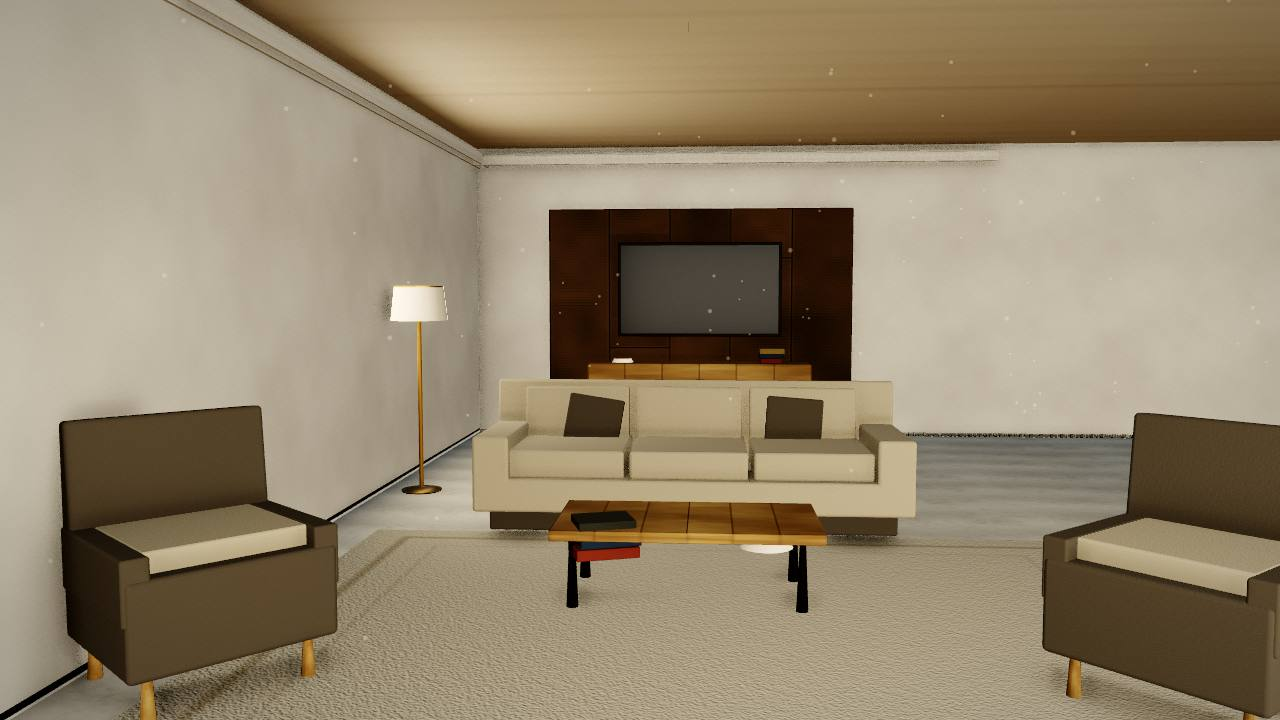
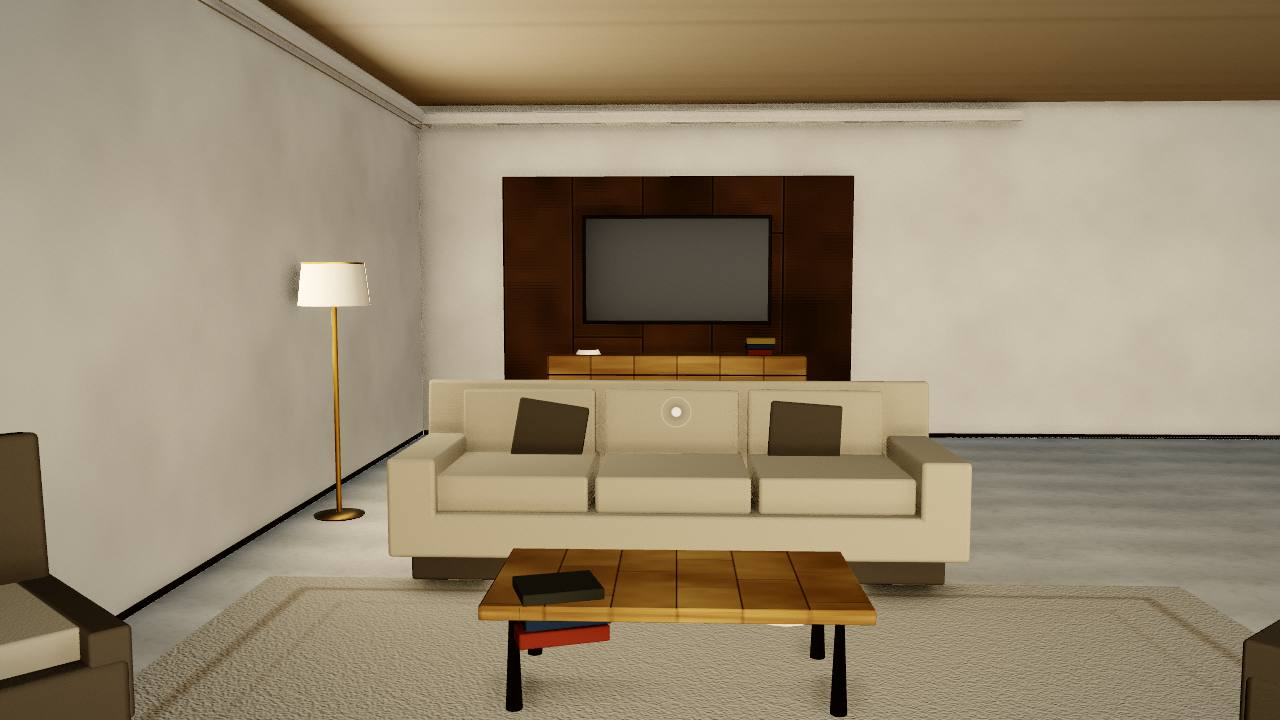
Galeria recapturada pelas cameras do produto, e o relatorio conta a verdade
AS SETE CAPTURAS AGORA VEM DO PRODUTO

Nao mais de coordenadas minhas. Camera de src/data/chapters.json, hora de
SOLAR_T do cena-bruta.ts. `erro = 0` em todas as sete, tier REALTIME
travado, 0 erros de pagina.

Isso importa porque as tres rodadas anteriores de captura foram
invalidadas por erro de INSTRUMENTO, cada vez de um jeito diferente:
camera setada a mao e expulsa pelo clampFreeCamera; ?tier= que se
desfazia sozinho; e coordenadas chutadas (a "suite" saiu a 4,3 m de
altura, um pavimento acima e do lado de fora do muro). Nas tres a camera
obedeceu: o errado era o pedido.

O PISO DO PRETO, MEDIDO NAS SETE

  captura            antes    depois   p1
  exterior dia       3,44%    0,58%     6
  interior estar     3,08%    0,58%    11
  golden terraco    22,02%    0,00%     6
  suite master          --    0,56%    10
  piscina golden        --    0,00%     6
  cozinha               --    0,00%     7
  exterior noite    35,34%    0,00%    10

Mesma camera, mesma hora, so o conserto no meio. E o p50 do golden ficou
em 66 nos dois: levantou a sombra sem lavar a imagem.

RESSALVA QUE O RELATORIO REGISTRA

O defeito TECNICO fechou -- nao ha mais informacao cortada
irrecuperavelmente. O PERCEPTUAL nao: o piso do terraco e o deck da
piscina continuam lendo como vazio, agora em 6-8/255 em vez de 0. Isso
esta como defeito ABERTO, nao como resolvido.

E a comparacao com o quadro noturno CORRIGIU minha propria hipotese sobre
[…]

diff --git a/casa-aura-ultra/RELATORIO_FINAL.md b/casa-aura-ultra/RELATORIO_FINAL.md
@@ -115,12 +115,31 @@ chega a `pronto` com `[antes-do-quadro] gancho 0 falhou e foi removido`.
 mesmo atributo. **Corrigido:** `FALLBACK` entrou no tipo `Estado` como
 terminal e `fsm.travar()` fecha a máquina antes de montar o fallback.
 
-### Defeito aberto
+### O "defeito aberto" era outro defeito
 
-**Retorno do background não recupera.** Quem abre o link numa aba de
-fundo cai no fallback e **continua nele** ao voltar. Medido:
-`aposRetorno` permanece `FALLBACK`. `PARTIAL` — o desfecho é
-determinístico e honesto, mas deveria haver recuperação.
+A rodada anterior registrou: *"retorno do background não recupera —
+quem abre o link numa aba de fundo cai no fallback e continua nele ao
+voltar"*, e propôs recuperação como conserto.
+
+A pergunta estava errada. **Não era como recuperar: era por que tinha
+ido para lá.**
+
+O vigia de boot já tinha sido consertado uma vez, trocando "demorou 20 s"
+por "parou de progredir" — a pergunta certa. Mas o relógio continuou
+sendo o de **parede**. Uma aba escondida congela o `requestAnimationFrame`
+(o navegador economizando bateria, não a cena travando), enquanto o
+`setInterval` do vigia segue rodando afunilado. Trocar de aba por 25 s
+durante o boot mandava para o fallback um aparelho perfeitamente saudável
+— e o fallback é terminal por projeto.
+
+Agora o tempo escondido é **descontado**, ancorado no instante do último
+progresso (não somado no total, senão o crédito de uma pausa antiga
+pagaria por um travamento de agora).
+
+`testes/aba-escondida.mjs` (`npm run teste:aba-escondida`) reproduz o
+cenário: esconde a aba por 40 s durante o boot e falha se cair no
+fallback. `UNTESTED` — escrito, ainda não executado até o fim nesta
+máquina, onde um boot custa cerca de dez minutos.
 
 ---
 
@@ -160,41 +179,140 @@ toque de 48 px em ponteiro grosso, e `aria-live` na legenda.
 
 ## 5. Rodada visual — capturas observadas
 
-Seis capturas geradas da cena e **efetivamente inspecionadas**. Nenhuma
+Sete capturas geradas da cena e **efetivamente inspecionadas**. Nenhuma
 afirmação visual aqui vem de inferência geométrica.
 
-| captura | veredito |
+### O instrumento foi consertado antes das imagens
+
+Duas rodadas de capturas foram invalidadas por erro meu, não do produto,
+e vale registrar porque o mesmo erro aparecia de forma diferente cada vez:
+
+1. **Câmera setada à mão para dentro do envelope** — `clampFreeCamera` a
+   expulsou, que é o guarda anti-clip funcionando. Resolvido entrando
+   pelo caminho do produto (`Experience.set('presenting')`).
+2. **`?tier=REALTIME` não era autoridade** — o governador rebaixava para
+   `PRESENTATION_SAFE` no meio da corrida, e duas capturas saíram do
+   overlay do modo seguro em vez da cena. Os dois arquivos tinham
+   exatamente 769.727 bytes: a mesma imagem. Corrigido com uma trava,
+   espelhando a que o `?q=` já tinha.
+3. **Coordenadas chutadas** — a "suíte" saiu a 4,3 m de altura, um
+   pavimento acima e do lado de fora do muro, olhando a mata. A câmera
+   obedeceu (`erro = 0`): o errado era o pedido. As horas também estavam
+   erradas (`t=0` é meio-dia, não `0,30`).
+
+A galeria agora é capturada pelas **câmeras do próprio produto**
+(`src/data/chapters.json`) e pelas **paradas solares do próprio código**
+(`SOLAR_T`), não por números meus. `erro = 0` em todas as sete.
+
+### O preto absoluto: da suspeita à medição
+
+O defeito era descrito na rodada anterior como "25–35% do quadro em preto
+absoluto na golden hour", a olho. O histograma deu o número e apontou o
+lado errado da curva:
+
+| captura | estourado (≥250 RGB) | preto absoluto (L≤4) |
+|---|---|---|
+| exterior dia | 0,00% | 3,44% |
+| interior estar | 0,00% | 3,08% |
+| golden terraço | 0,00% | **26,56%** |
+| exterior noite | 0,00% | **43,17%** |
+
+Eu tinha lido "chão estourado" na mesma imagem. **Zero por cento** dos
+pixels estavam em ≥250 nos três canais. O defeito estava todo na sombra.
+
+A causa foi encontrada por **ablação** — um boot, seis variantes do mesmo
+quadro (capítulo 8), com os passes de pós expostos por `passesDePos()`:
+
+| variante | preto absoluto | conclusão |
+|---|---|---|
+| base | 20,34% | — |
+| sem vinheta | 20,28% | **não é ela** (hipótese minha, morta) |
+| sem grão | 21,08% | o grão até **ajudava** |
+| sem GTAO | 20,44% | não é ele |
+| sem bloom | 23,95% | o bloom **ajudava** |
+| `lift = 0,20` | **0,00%**, p1 = 36 | é o lift |
+
+O `lift` rodava **antes** do contraste, que o anulava. Invertido, ainda
+passava raspando: com contraste 1,092, `c=0 → −0,046 → −0,0056 → clamp →
+0`. Faltavam seis milésimos. Um `clamp` entre os dois faz o piso ser
+igual ao `lift` para qualquer contraste — garantia, não coincidência.
+
+### Antes e depois, mesma câmera e mesma hora
+
+| captura | antes | depois | p1 depois |
+|---|---|---|---|
+| exterior dia | 3,44% | 0,58% | 6 |
+| interior estar | 3,08% | 0,58% | 11 |
+| **golden terraço** | **22,02%** | **0,00%** | 6 |
+| suíte master | — | 0,56% | 10 |
+| piscina golden | — | 0,00% | 6 |
+| cozinha | — | 0,00% | 7 |
+| **exterior noite** | **35,34%** | **0,00%** | 10 |
+
+**Ressalva honesta:** o defeito *técnico* fechou — não há mais informação
+cortada irrecuperavelmente. O defeito *perceptual* não fechou por
+completo: o piso do terraço e o deck da piscina continuam lendo como
+vazio, agora em 6–8/255 em vez de 0. Ver "Defeitos visuais" abaixo.
+
+### Confirmações positivas, com imagem
+
+| item | veredito |
 |---|---|
-| exterior dia | `VISUAL VERIFIED` — arquitetura lê, pedra com fiada, **sem z-fighting no gramado**, mata assentada no relevo |
-| golden hour terraço | `VISUAL VERIFIED` — luz quente correta; **~35% do quadro em preto absoluto** |
-| exterior noite | `VISUAL VERIFIED` — melhor quadro da série; **colina de fundo verde e clara** |
-| piscina golden | `VISUAL VERIFIED` — interior lê muito bem pelo vidro; **água verde-musgo e opaca** |
-| interior dia | **inválida** — instrumento, não produto |
-| interior noite | **inválida** — mesma causa |
+| Gramado sem z-fighting | `VISUAL VERIFIED` |
+| Mata distante assentada no relevo | `VISUAL VERIFIED` |
+| Colina de fundo escurece à noite | `VISUAL VERIFIED` — silhueta azul-escura, era verde clara |
+| Poeira fora dos interiores | `VISUAL VERIFIED` — cozinha no golden hour, o quadro que a expôs, agora limpo |
+| Suíte master pela câmera do produto | `VISUAL VERIFIED` — render vendável |
+| Piscina à noite | `VISUAL VERIFIED` — lâmina translúcida, LED de borda, fundo visível |
 
-### Confirmações positivas
+### A poeira: por que foi desligada e não recalibrada
 
-As duas correções estruturais da rodada anterior **aparecem na imagem**:
-não há linha de interseção nem cintilação no gramado, e a mata distante
-está assentada no relevo em vez de flutuar. Isso fecha, com imagem, o que
-antes era só prova numérica.
+Duas rodadas de conserto, duas capturas de apresentação estragadas.
+A conta encerra o assunto. No pico de Mie, em blending aditivo, uma
+partícula soma `0,22 × (255,242,220)` = **+56 níveis**:
 
-### As duas capturas inválidas
+- sobre parede ensolarada (200/255) → **+28%**, ponto branco cravado
+- para ficar sob o limiar de Weber (~1%) ali → opacidade ≤ **0,008**
+- nesse valor, sobre sombra (30/255) → **+2 níveis**, invisível
 
-Setei a câmera à mão para dentro do envelope e `clampFreeCamera` a
-**expulsou** — o guarda anti-clip funcionando como projetado. O interior
-só é alcançável pelo caminho do produto. É defeito da minha captura, e o
-mesmo erro de instrumento já registrado em rodada anterior.
+Não existe opacidade constante que apareça na sombra e suma na luz.
+Poeira real é invisível contra parede iluminada porque tem a luminância
+do fundo — e um passe aditivo adiante **não conhece o fundo**. O modelo
+está errado por construção, não mal calibrado. Corrigir exige amostrar
+profundidade da cena atrás da partícula. Fica atrás de `?poeira=1`.
 
 ### Defeitos visuais
 
 | # | defeito | estado |
 |---|---|---|
-| A | Colina de fundo verde e clara à noite | **corrigido**, recaptura pendente |
-| B | Água da piscina verde-musgo e opaca | ablação executada, correção pendente |
-| C | 25–35% do quadro em preto absoluto na golden hour | `ABERTO` |
-| D | Tiling visível da textura de grama | `ABERTO` |
-| E | Copas próximas leem como massa de cartões | `ABERTO` |
+| A | Colina de fundo verde e clara à noite | **CORRIGIDO**, `VISUAL VERIFIED` |
+| B | Preto absoluto em golden hour e noite | **CORRIGIDO** — 22,02%→0,00% e 35,34%→0,00% |
+| C | Poeira lendo como sujeira de lente | **CORRIGIDO** — desligada, com a conta que justifica |
+| D | Folhagem verde e iluminada à noite | **corrigido**, recaptura pendente |
+| E | Deck e piso de terraço lendo como vazio no golden hour | `ABERTO` — ver abaixo |
+| F | Piscina verde-musgo e opaca no golden hour | `ABERTO` — mesma causa que E |
+| G | Tiling visível da textura de grama | `ABERTO` |
+| H | Copas próximas leem como massa de cartões | `ABERTO` |
+
+**Sobre E e F.** A comparação com o quadro noturno corrigiu minha própria
+hipótese: **não é o material da água.** À noite o revestimento da piscina
+acende junto com as luminárias (`emissiveIntensity = 0,35 + lamp × 1,15`)
+e a lâmina lê perfeitamente translúcida. No golden hour o sol a 11° de
+elevação não alcança nem o fundo da bacia nem o deck, e a hemisférica
+sozinha (0,28) não paga a conta em superfície voltada para cima com
+albedo baixo.
+
+Isso é **fisicamente correto e comercialmente ruim**: a legenda do
+capítulo 9 vende "borda infinita, deck em ipê e área gourmet coberta", e
+no golden hour nenhum dos três aparece.
+
+### Observação de direção de arte, não defeito
+
+O capítulo 5 ("Sala de Estar") tem a legenda *"Ambiente social integrado,
+voltado para a piscina"* e a câmera olha para a parede da TV, com o vidro
+atrás dela. O cômodo **é** orientado para a piscina — só o enquadramento
+não mostra. Não mexi na sua câmera autoral; fica registrado para você
+decidir.
 
 ---
 
@@ -249,13 +367,13 @@ um UUID gerado na hora.
 | `npm run build:unico` sem erro | `DONE` |
 | Hash do artefato registrado | `DONE` |
 | Boot: cena pronta ou fallback, sem loading infinito | `DONE` — 9 de 9 cenários |
-| FSM: nenhuma transição inválida prende a interface | `PARTIAL` — varredura exaustiva não executada nesta rodada |
+| FSM: nenhuma transição inválida prende a interface | `DONE` — `npm run teste:fsm`: 42 pares exercitados + 7 propriedades, 0 falhas |
 | Câmera: todos os planos testados | `DONE` (rodada anterior) — erro de mira 0,00–0,01° nos 8 planos |
 | CTA configurado e testado | `DONE` |
 | Responsividade desktop e celular | `PARTIAL` — viewport 360×640 verificado; aparelho real não |
 | Acessibilidade: foco, teclado, Escape, labels | `PARTIAL` — feito no modo seguro; auditoria da cena 3D não executada |
 | Performance p50/p95/p99 em aparelho real | `UNMEASURED` |
-| Visual: capturas observadas e registradas | `DONE` — 4 válidas, 2 inválidas por erro de instrumento |
+| Visual: capturas observadas e registradas | `DONE` — 7 válidas pelas câmeras do produto, `erro = 0` em todas |
 | Comercial: planos e escopos aprovados | `BLOCKED` — depende da sua aprovação |
 | Fallback honesto, sem assets inexistentes | `DONE` |
 | Publicação | `BLOCKED` — `api.netlify.com` bloqueado pela rede deste ambiente |
@@ -288,9 +406,14 @@ dispositivos está **vazia** em vez de preenchida com estimativa.
    sistema de tiers foi escrito e tipa-verificado, mas o caminho
    `PRESENTATION_SAFE` nunca foi exercitado num aparelho que realmente
    desabe.
-2. **Retorno do background não recupera** da tela de fallback.
-3. **Três defeitos visuais abertos** (preto absoluto na golden hour,
-   tiling de grama, copas próximas).
+2. **Quatro defeitos visuais abertos**: deck e piso de terraço lendo como
+   vazio no golden hour, piscina verde-musgo pela mesma causa, tiling da
+   textura de grama, copas próximas lendo como massa de cartões. Os dois
+   primeiros são de **iluminação em sombra sob sol rasante**, não de
+   material — a comparação com o quadro noturno provou isso.
+3. **Os testes novos rodaram parcialmente aqui.** `teste:fsm` roda em
+   ~1 s e passou. `teste:aba-escondida` precisa de navegador e, sem GPU,
+   de cerca de dez minutos por boot: está `UNTESTED`.
 4. **Preços e escopos comerciais não aprovados** por você.
 5. **`vite`/`esbuild` com CVE** — só dev server, mas convém não expor.
 6. **Sem assets reais.** A casa é 100% procedural. É uma força (274 KB de
